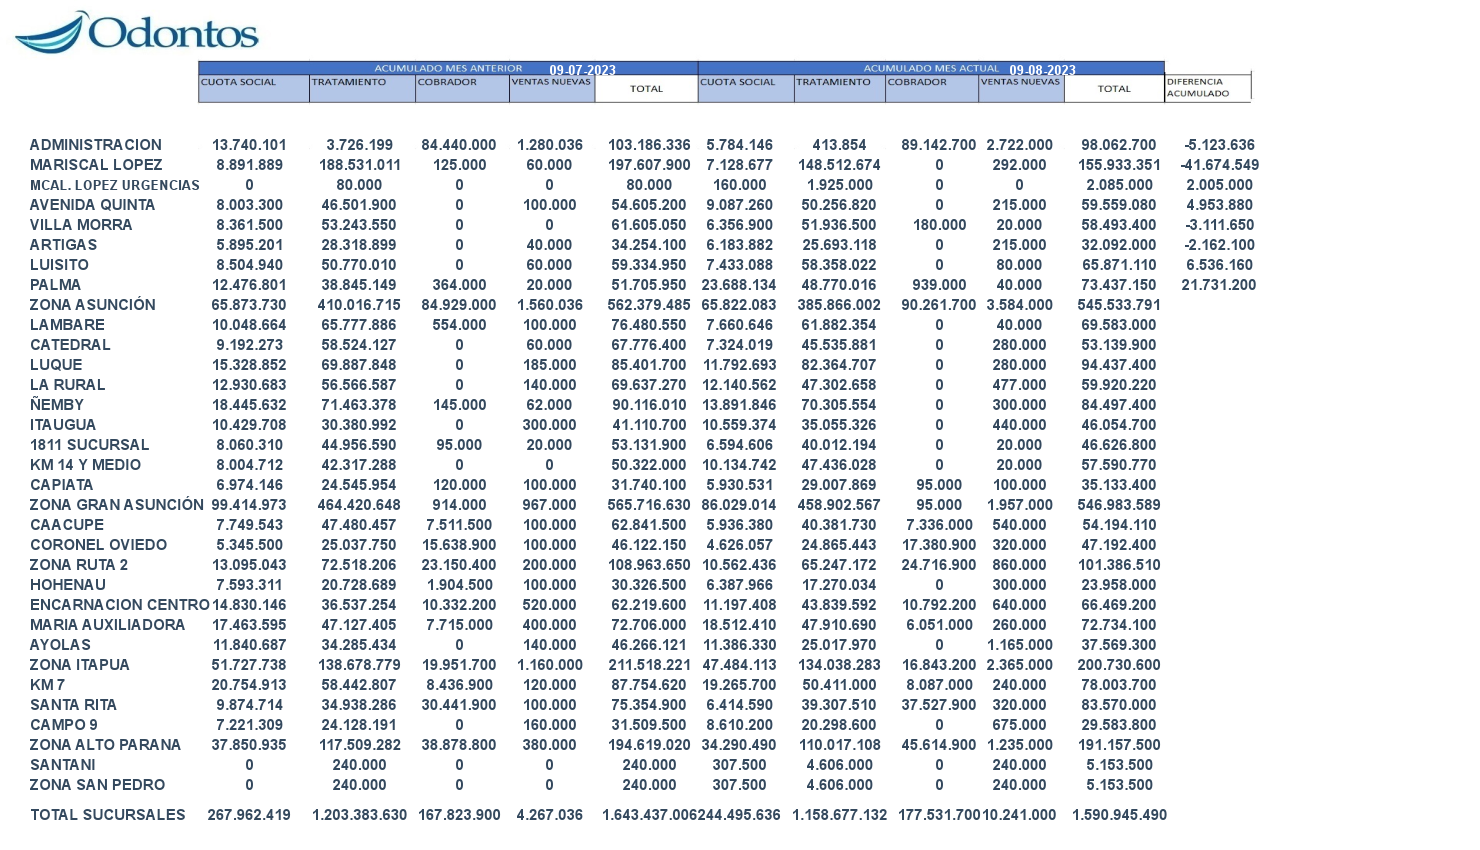
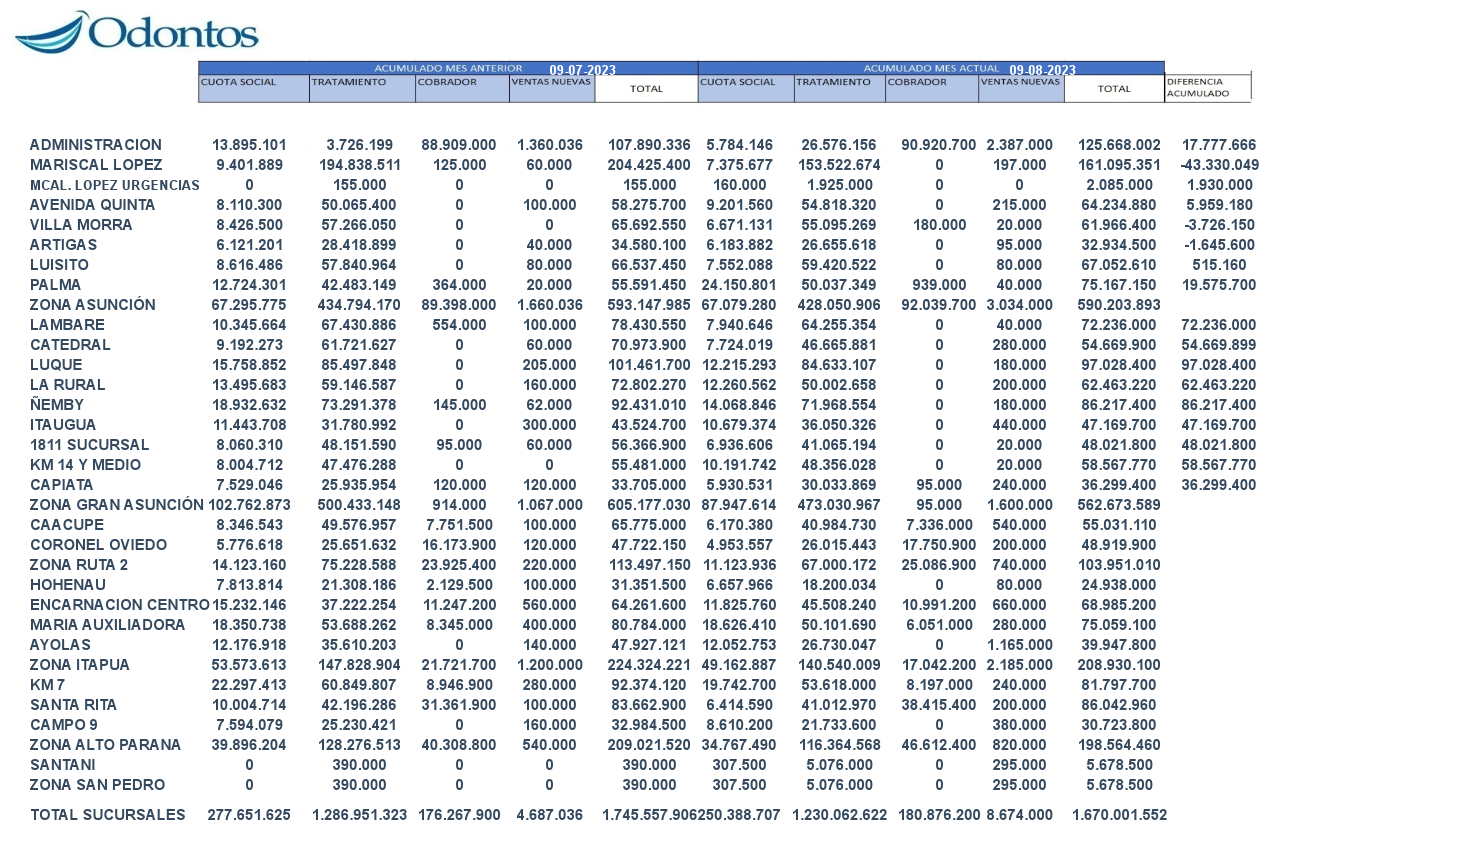
add mas sucursales

diff --git a/src/routes/reporte_acumulado.js b/src/routes/reporte_acumulado.js
@@ -904,6 +904,38 @@ module.exports = (app) => {
   let totalLAM_ = 0;
   let totalDifLAM = 0;
 
+  let totalCAT = 0;
+  let totalCAT_ = 0;
+  let totalDifCAT = 0;
+
+  let totalLUQ = 0;
+  let totalLUQ_ = 0;
+  let totalDifLUQ = 0;
+
+  let totalLAR = 0;
+  let totalLAR_ = 0;
+  let totalDifLAR = 0;
+
+  let totalNEM = 0;
+  let totalNEM_ = 0;
+  let totalDifNEM = 0;
+
+  let totalITA = 0;
+  let totalITA_ = 0;
+  let totalDifITA = 0;
+
+  let total1811 = 0;
+  let total1811_ = 0;
+  let totalDif1811 = 0;
+
+  let totalKM14 = 0;
+  let totalKM14_ = 0;
+  let totalDifKM14 = 0;
+
+  let totalCAP = 0;
+  let totalCAP_ = 0;
+  let totalDifCAP = 0;
+
   // Sumar montos de acumulados mes anterior
   function sumarMontosMesAnterior(los_acumulados_mes_ant) {
     let arrayAsuncion = [
@@ -1192,6 +1224,42 @@ module.exports = (app) => {
         sumTotalesGAsuncionCO_ += parseInt(r.COBRADOR);
         sumTotalesGAsuncionVN_ += parseInt(r.VENTA_NUEVA);
         sumTotalesGAsuncionMT_ += parseInt(r.MONTO_TOTAL);
+
+        if (r.SUCURSAL == "LAMBARE") {
+          totalLAM_ = r.MONTO_TOTAL;
+        }
+
+        if (r.SUCURSAL == "CATEDRAL") {
+          totalCAT_ = r.MONTO_TOTAL;
+        }
+
+        if (r.SUCURSAL == "LUQUE") {
+          totalLUQ_ = r.MONTO_TOTAL;
+        }
+
+        if (r.SUCURSAL == "LA RURAL") {
+          totalLAR_ = r.MONTO_TOTAL;
+        }
+
+        if (r.SUCURSAL == "ÑEMBY") {
+          totalNEM_ = r.MONTO_TOTAL;
+        }
+
+        if (r.SUCURSAL == "ITAUGUA") {
+          totalITA_ = r.MONTO_TOTAL;
+        }
+
+        if (r.SUCURSAL == "1811 SUCURSAL") {
+          total1811_ = r.MONTO_TOTAL;
+        }
+
+        if (r.SUCURSAL == "KM 14 Y MEDIO") {
+          totalKM14_ = r.MONTO_TOTAL;
+        }
+
+        if (r.SUCURSAL == "CAPIATA") {
+          totalCAP_ = r.MONTO_TOTAL;
+        }
       }
 
       if (arrayRuta2.includes(r.SUCURSAL)) {
@@ -1274,8 +1342,16 @@ module.exports = (app) => {
     totalDifLUI = parseInt(totalLUI_ - totalLUI);
     totalDifPAL = parseInt(totalPAL_ - totalPAL);
 
+    totalDifLAM = parseInt(totalLAM_ - totalLAM);
+    totalDifCAT = parseInt(totalCAT_ - totalCAT);
+    totalDifLUQ = parseInt(totalLUQ_ - totalLUQ);
+    totalDifLAR = parseInt(totalLAR_ - totalLAR);
+    totalDifNEM = parseInt(totalNEM_ - totalNEM);
+    totalDifITA = parseInt(totalITA_ - totalITA);
+    totalDif1811 = parseInt(total1811_ - total1811);
+    totalDifKM14 = parseInt(totalKM14_ - totalKM14);
+    totalDifCAP = parseInt(totalCAP_ - totalCAP);
 
-    console.log("Total diferencia administracion", totalDifAdministracion);
 
     // Suma las cantidades de los turnos
     // for (let t of losTurnosCantidades) {
@@ -3492,6 +3568,14 @@ module.exports = (app) => {
             context.fillStyle = "#34495E";
             context.textAlign = "center";
             context.fillText(r.MONTO_TOTAL, ejeXmonto_, ejeYlam);
+
+            context.font = "bold 15px Arial";
+            context.fillStyle = "#34495E";
+            context.textAlign = "center";
+            context.fillText(totalDifLAM.toLocaleString("es", {
+              minimumFractionDigits: 0,
+              maximumFractionDigits: 0,
+            }) , ejeXdiferencia_, ejeYlam);
           }
 
           if (r.SUCURSAL == "CATEDRAL") {
@@ -3543,6 +3627,14 @@ module.exports = (app) => {
             context.fillStyle = "#34495E";
             context.textAlign = "center";
             context.fillText(r.MONTO_TOTAL, ejeXmonto_, ejeYcat);
+
+            context.font = "bold 15px Arial";
+            context.fillStyle = "#34495E";
+            context.textAlign = "center";
+            context.fillText(totalDifCAT.toLocaleString("es", {
+              minimumFractionDigits: 0,
+              maximumFractionDigits: 0,
+            }) , ejeXdiferencia_, ejeYcat);
           }
 
           if (r.SUCURSAL == "LUQUE") {
@@ -3595,6 +3687,14 @@ module.exports = (app) => {
             context.fillStyle = "#34495E";
             context.textAlign = "center";
             context.fillText(r.MONTO_TOTAL, ejeXmonto_, ejeYluq);
+
+            context.font = "bold 15px Arial";
+            context.fillStyle = "#34495E";
+            context.textAlign = "center";
+            context.fillText(totalDifLUQ.toLocaleString("es", {
+              minimumFractionDigits: 0,
+              maximumFractionDigits: 0,
+            }) , ejeXdiferencia_, ejeYluq);
           }
 
           if (r.SUCURSAL == "LA RURAL") {
@@ -3647,6 +3747,14 @@ module.exports = (app) => {
             context.fillStyle = "#34495E";
             context.textAlign = "center";
             context.fillText(r.MONTO_TOTAL, ejeXmonto_, ejeYlar);
+
+            context.font = "bold 15px Arial";
+            context.fillStyle = "#34495E";
+            context.textAlign = "center";
+            context.fillText(totalDifLAR.toLocaleString("es", {
+              minimumFractionDigits: 0,
+              maximumFractionDigits: 0,
+            }) , ejeXdiferencia_, ejeYlar);
           }
 
           if (r.SUCURSAL == "ÑEMBY") {
@@ -3699,6 +3807,14 @@ module.exports = (app) => {
             context.fillStyle = "#34495E";
             context.textAlign = "center";
             context.fillText(r.MONTO_TOTAL, ejeXmonto_, ejeYnem);
+
+            context.font = "bold 15px Arial";
+            context.fillStyle = "#34495E";
+            context.textAlign = "center";
+            context.fillText(totalDifNEM.toLocaleString("es", {
+              minimumFractionDigits: 0,
+              maximumFractionDigits: 0,
+            }) , ejeXdiferencia_, ejeYnem);
           }
 
           if (r.SUCURSAL == "ITAUGUA") {
@@ -3751,6 +3867,14 @@ module.exports = (app) => {
             context.fillStyle = "#34495E";
             context.textAlign = "center";
             context.fillText(r.MONTO_TOTAL, ejeXmonto_, ejeYita);
+
+            context.font = "bold 15px Arial";
+            context.fillStyle = "#34495E";
+            context.textAlign = "center";
+            context.fillText(totalDifITA.toLocaleString("es", {
+              minimumFractionDigits: 0,
+              maximumFractionDigits: 0,
+            }) , ejeXdiferencia_, ejeYita);
           }
 
           if (r.SUCURSAL == "1811 SUCURSAL") {
@@ -3803,6 +3927,14 @@ module.exports = (app) => {
             context.fillStyle = "#34495E";
             context.textAlign = "center";
             context.fillText(r.MONTO_TOTAL, ejeXmonto_, ejeY1811);
+
+            context.font = "bold 15px Arial";
+            context.fillStyle = "#34495E";
+            context.textAlign = "center";
+            context.fillText(totalDif1811.toLocaleString("es", {
+              minimumFractionDigits: 0,
+              maximumFractionDigits: 0,
+            }) , ejeXdiferencia_, ejeY1811);
           }
 
           if (r.SUCURSAL == "KM 14 Y MEDIO") {
@@ -3855,6 +3987,14 @@ module.exports = (app) => {
             context.fillStyle = "#34495E";
             context.textAlign = "center";
             context.fillText(r.MONTO_TOTAL, ejeXmonto_, ejeYkm14);
+
+            context.font = "bold 15px Arial";
+            context.fillStyle = "#34495E";
+            context.textAlign = "center";
+            context.fillText(totalDifKM14.toLocaleString("es", {
+              minimumFractionDigits: 0,
+              maximumFractionDigits: 0,
+            }) , ejeXdiferencia_, ejeYkm14);
           }
 
           if (r.SUCURSAL == "CAPIATA") {
@@ -3907,6 +4047,14 @@ module.exports = (app) => {
             context.fillStyle = "#34495E";
             context.textAlign = "center";
             context.fillText(r.MONTO_TOTAL, ejeXmonto_, ejeYcap);
+
+            context.font = "bold 15px Arial";
+            context.fillStyle = "#34495E";
+            context.textAlign = "center";
+            context.fillText(totalDifCAP.toLocaleString("es", {
+              minimumFractionDigits: 0,
+              maximumFractionDigits: 0,
+            }) , ejeXdiferencia_, ejeYcap);
           }
 
           // Zona Ruta 2
@@ -5630,7 +5778,7 @@ module.exports = (app) => {
             fileSize: "",
           };
 
-          // Envia el mensaje
+          // Envia el mensaje por la API free WWA
           // axios
           //   .post(wwaUrl, mensajeBody)
           //   .then((response) => {
